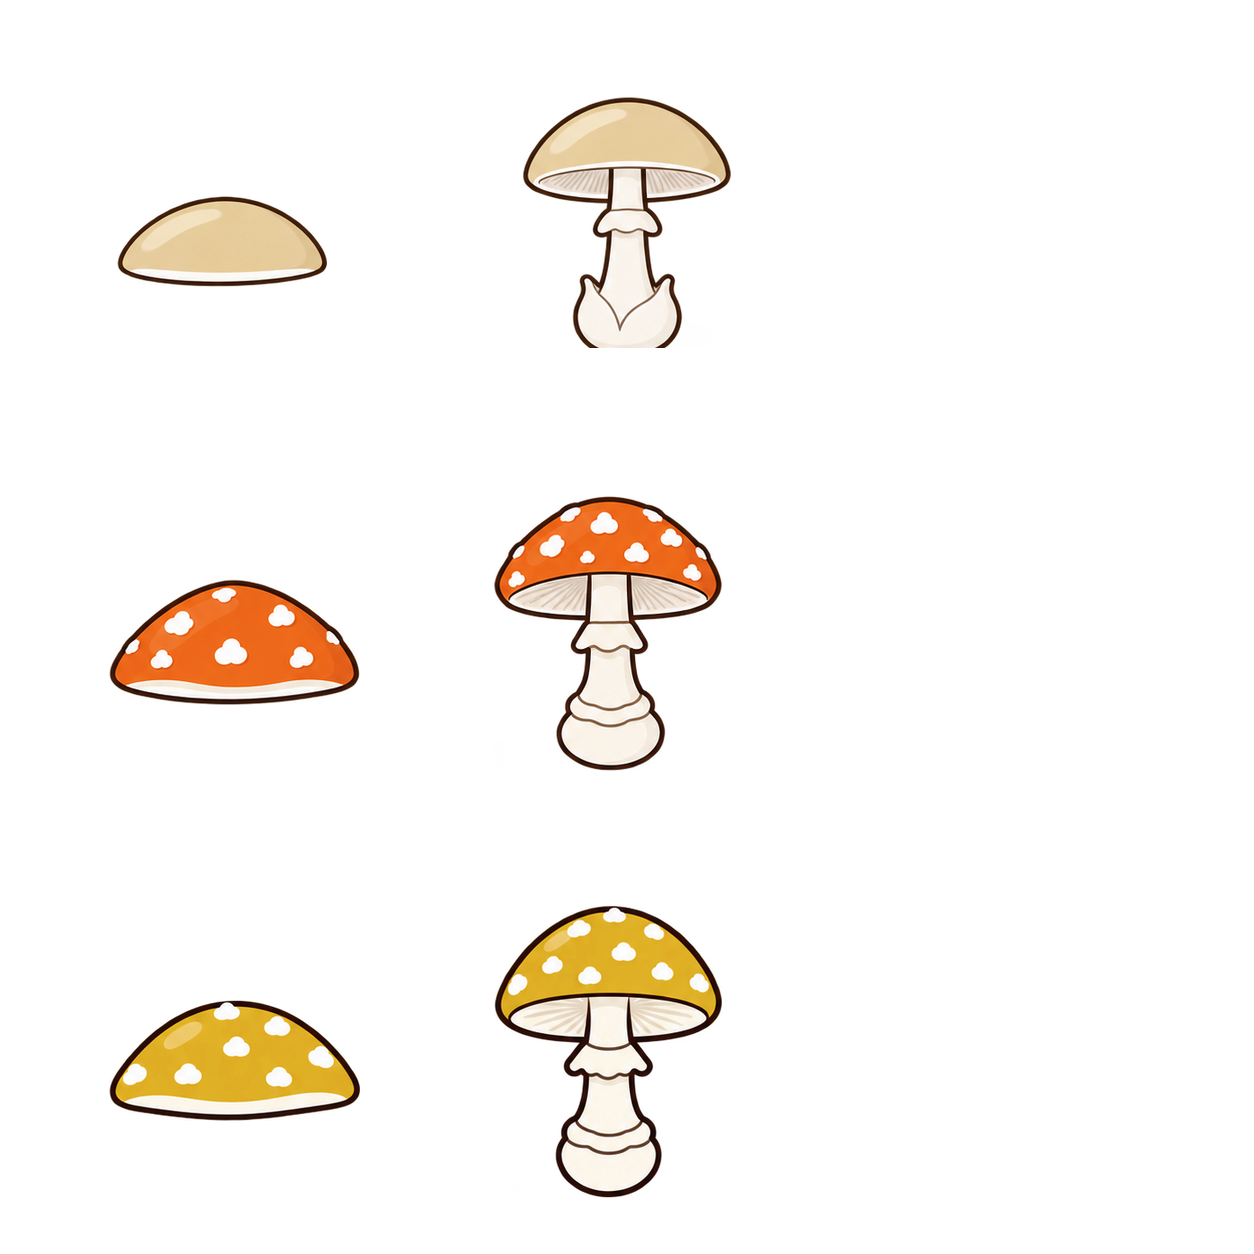
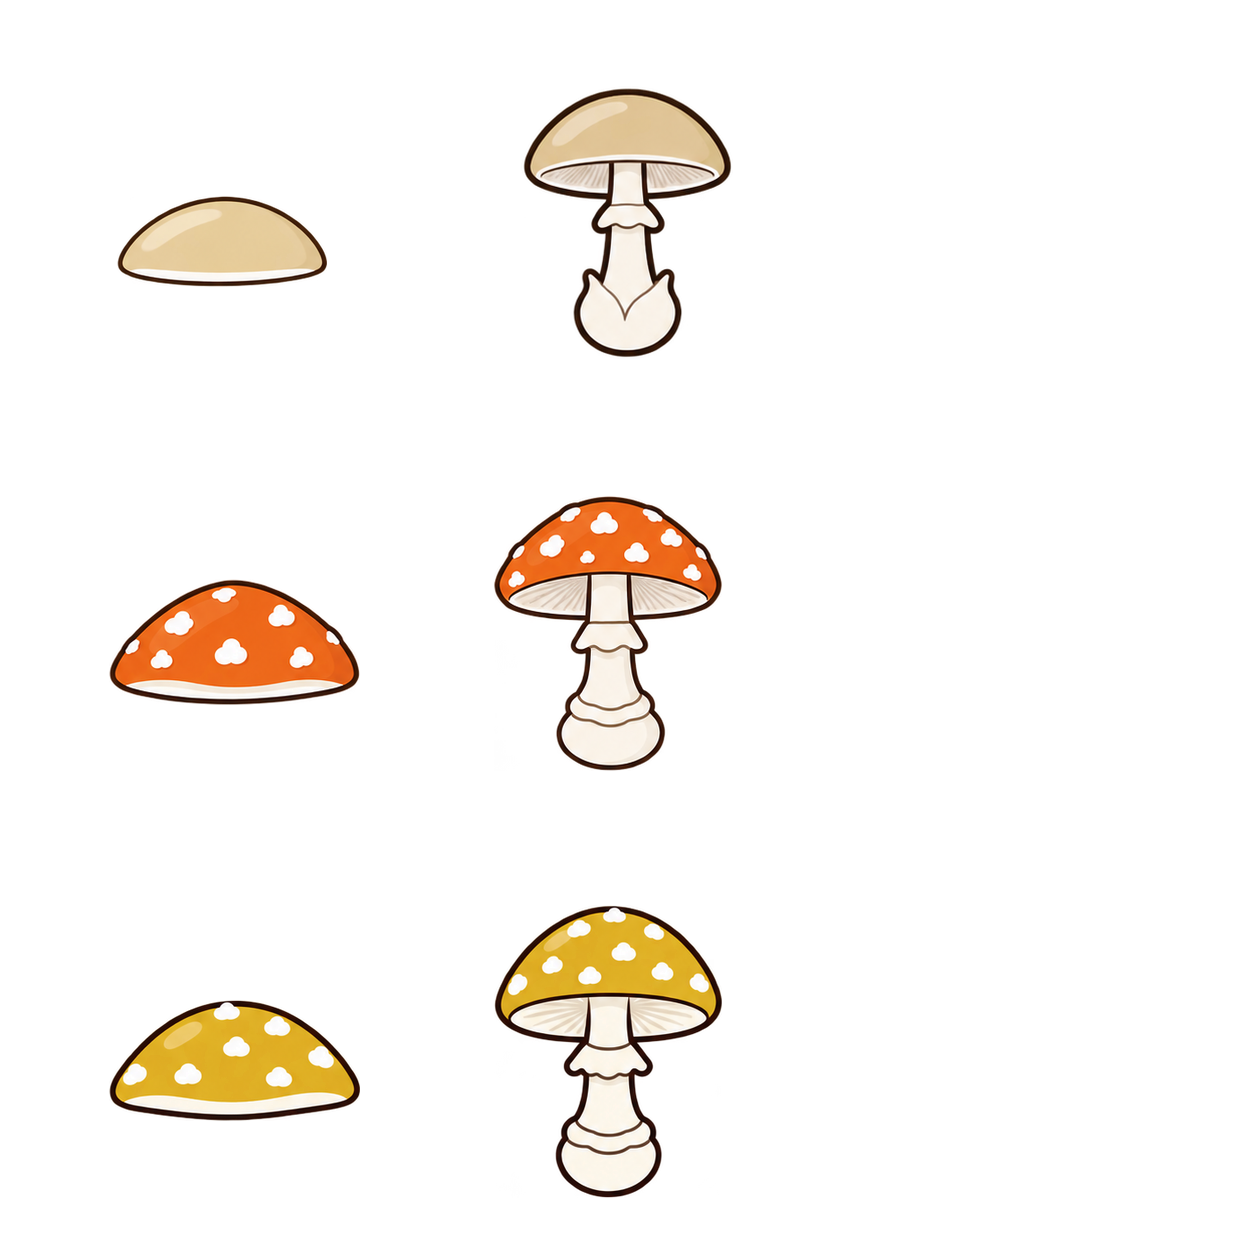
Rigenera cella 1 della variante 03: volva verna completa e contorno verificato

Changed region(s): [[0.4043, 0.0622, 0.5909, 0.2799]]

diff --git a/incoming/bozze/STATO.md b/incoming/bozze/STATO.md
@@ -175,7 +175,7 @@ Schema: `data/recognize-trees.json` su `claude/brave-tesla-wu0a2b`. 48 valori pr
 
 Ordine aggiornato da Matteo il 15/10: completare prima tutte le varianti di colore, mantenendo la priorità del brief; nessuna nuova variante di forma fino ai dati sulle fasi di crescita. Le forme solo generate e non caricate sono sospese.
 
-| icone/varianti-03.png | amanita-verna: colore:crema; amanita-muscaria: colore:arancio; amanita-muscaria: colore:giallo | ok | QA visiva completata; 6 icone, alpha reale, terza colonna vuota. Basi nel manifest. |
+| icone/varianti-03.png | amanita-verna: colore:crema; amanita-muscaria: colore:arancio; amanita-muscaria: colore:giallo | ok | Celle 1 rigenerate: contorno completo; controllo codice dei 4 lati e margine alpha0 di42px (10%) superati. |
 | icone-alberi/tavola-alberi-04.png | 0: leaf_shape/ovale; 1: leaf_shape/lanceolata; 2: leaf_shape/tondeggiante; 3: leaf_shape/cuoriforme; 4: leaf_shape/triangolare; 5: leaf_shape/lobata_a_mano; 6: leaf_shape/lobata_lungo_i_lati | ok, margini corretti | Sette sagome a bordo liscio ricontrollate. Rigenerata per margine10%; controllo codice: fasce42px di9celle senza pixel alpha>1/255, zero opachi; solo residuo generatore alpha1/255. Celle7e8 senza disegni. |
 | icone-alberi/tavola-alberi-03.png | 0: leaf_margin/intero; 1: leaf_margin/dentato; 2: leaf_margin/doppiamente_dentato; 3: leaf_margin/lobato; 4: leaf_margin/spinoso; 6: leaf_base/simmetrica; 7: leaf_base/asimmetrica | ok, margini corretti | Rigenerata per margine10%. Controllo codice su9celle e fasce42px: zero pixel alpha>1/255, zero opachi; residuo generatore alpha1/255. Limite: doppiamente_dentato semplificato, denti secondari poco immediati a48px. Basi simmetrica/asimmetrica verificate. |
 
